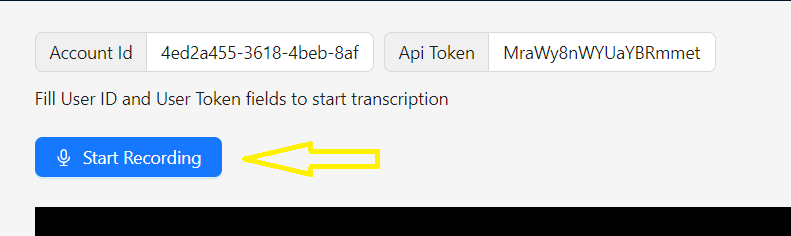
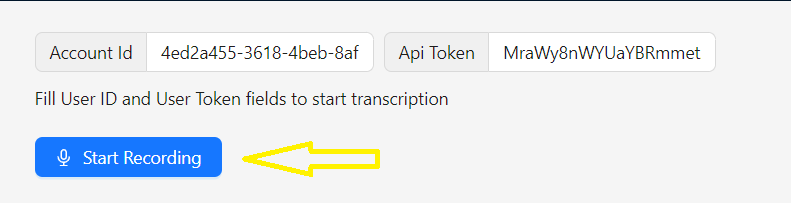
remove default values of accountId and apiToken

diff --git a/src/pages/index.js b/src/pages/index.js
@@ -8,10 +8,8 @@ import { getSocket, convertBlobToBase64 } from "../socket";
 const { Header, Content } = Layout;
 
 export default function Home() {
-  const [apiToken, setApiToken] = React.useState("MraWy8nWYUaYBRmmetAbVA==");
-  const [accountId, setAccountId] = React.useState(
-    "4ed2a455-3618-4beb-8af2-25895780a8ac"
-  );
+  const [apiToken, setApiToken] = React.useState("");
+  const [accountId, setAccountId] = React.useState("");
   const [isAudioRecording, setIsAudioRecording] = React.useState(false);
   const [transcriptionText, setTranscriptionText] = React.useState("");
 
@@ -28,8 +26,6 @@ export default function Home() {
   async function recordAudio() {
     try {
       setIsAudioRecording(true);
-
-      // messages.current = "";
 
       recordStream.current = await navigator.mediaDevices.getUserMedia({
         audio: { sampleRate: 44100, channelCount: 1 },
@@ -174,8 +170,6 @@ export default function Home() {
           className="site-layout"
           style={{
             padding: "25px 50px",
-            // height: "calc(100vh - 132px)"
-            // height: "100%",
           }}
         >
           <Space style={{ width: "100%", marginBottom: 10 }}>
@@ -224,7 +218,6 @@ export default function Home() {
               marginTop: 24,
               lineHeight: 2.5,
               padding: 24,
-              // height: 300,
               background: "black",
               overflowY: "scroll",
             }}
@@ -239,7 +232,6 @@ export default function Home() {
             )}
           </div>
         </Content>
-        {/* <Footer style={{ textAlign: "center" }}>intella</Footer> */}
       </Layout>
     </>
   );

diff --git a/README.md b/README.md
@@ -9,7 +9,7 @@ To get started with integrating your system with ivoice, follow these steps:
 1. **Clone the Repository**:
 
 ```bash
-git clone https://github.com/moeldeeb1998/ivoice-integration.git
+git clone https://github.com/intellaworld/ivoice-integration-example.git
 ```
 
 2. **Install Dependencies**:
@@ -47,7 +47,7 @@ npm run start
   ![Data](image.png)
 
 - Click on `Start Recording` button and start speaking in Arabic
-  ![Button](button-1.png)
+  ![Button](button.png)
 
 - Allow microphone access
 
@@ -55,7 +55,7 @@ npm run start
 
 ## Integration Guide
 
-For a comprehensive integration guide, please refer to our official documentation [here](https://link-to-your-documentation).
+For a comprehensive integration guide, please refer to our official documentation [here](https://drive.google.com/file/d/1MYFoXP4ym2_ZZba1Kll30Vmz0dverBlT/view?usp=sharing).
 
 ### Explore the follwing files
 
@@ -63,9 +63,9 @@ to understand integration with ivoice
 ws handlers are implemented inside `src/pages/index.js`
 ws helper are impelemented inside `src/socket.js`
 
-## Issues and Support
+<!-- ## Issues and Support
 
-If you encounter any issues during the integration process or have any questions, please don't hesitate to reach out to our support team at [support@example.com](mailto:support@example.com).
+If you encounter any issues during the integration process or have any questions, please don't hesitate to reach out to our support team at [support@example.com](mailto:support@example.com). -->
 
 ## Contributing
 
